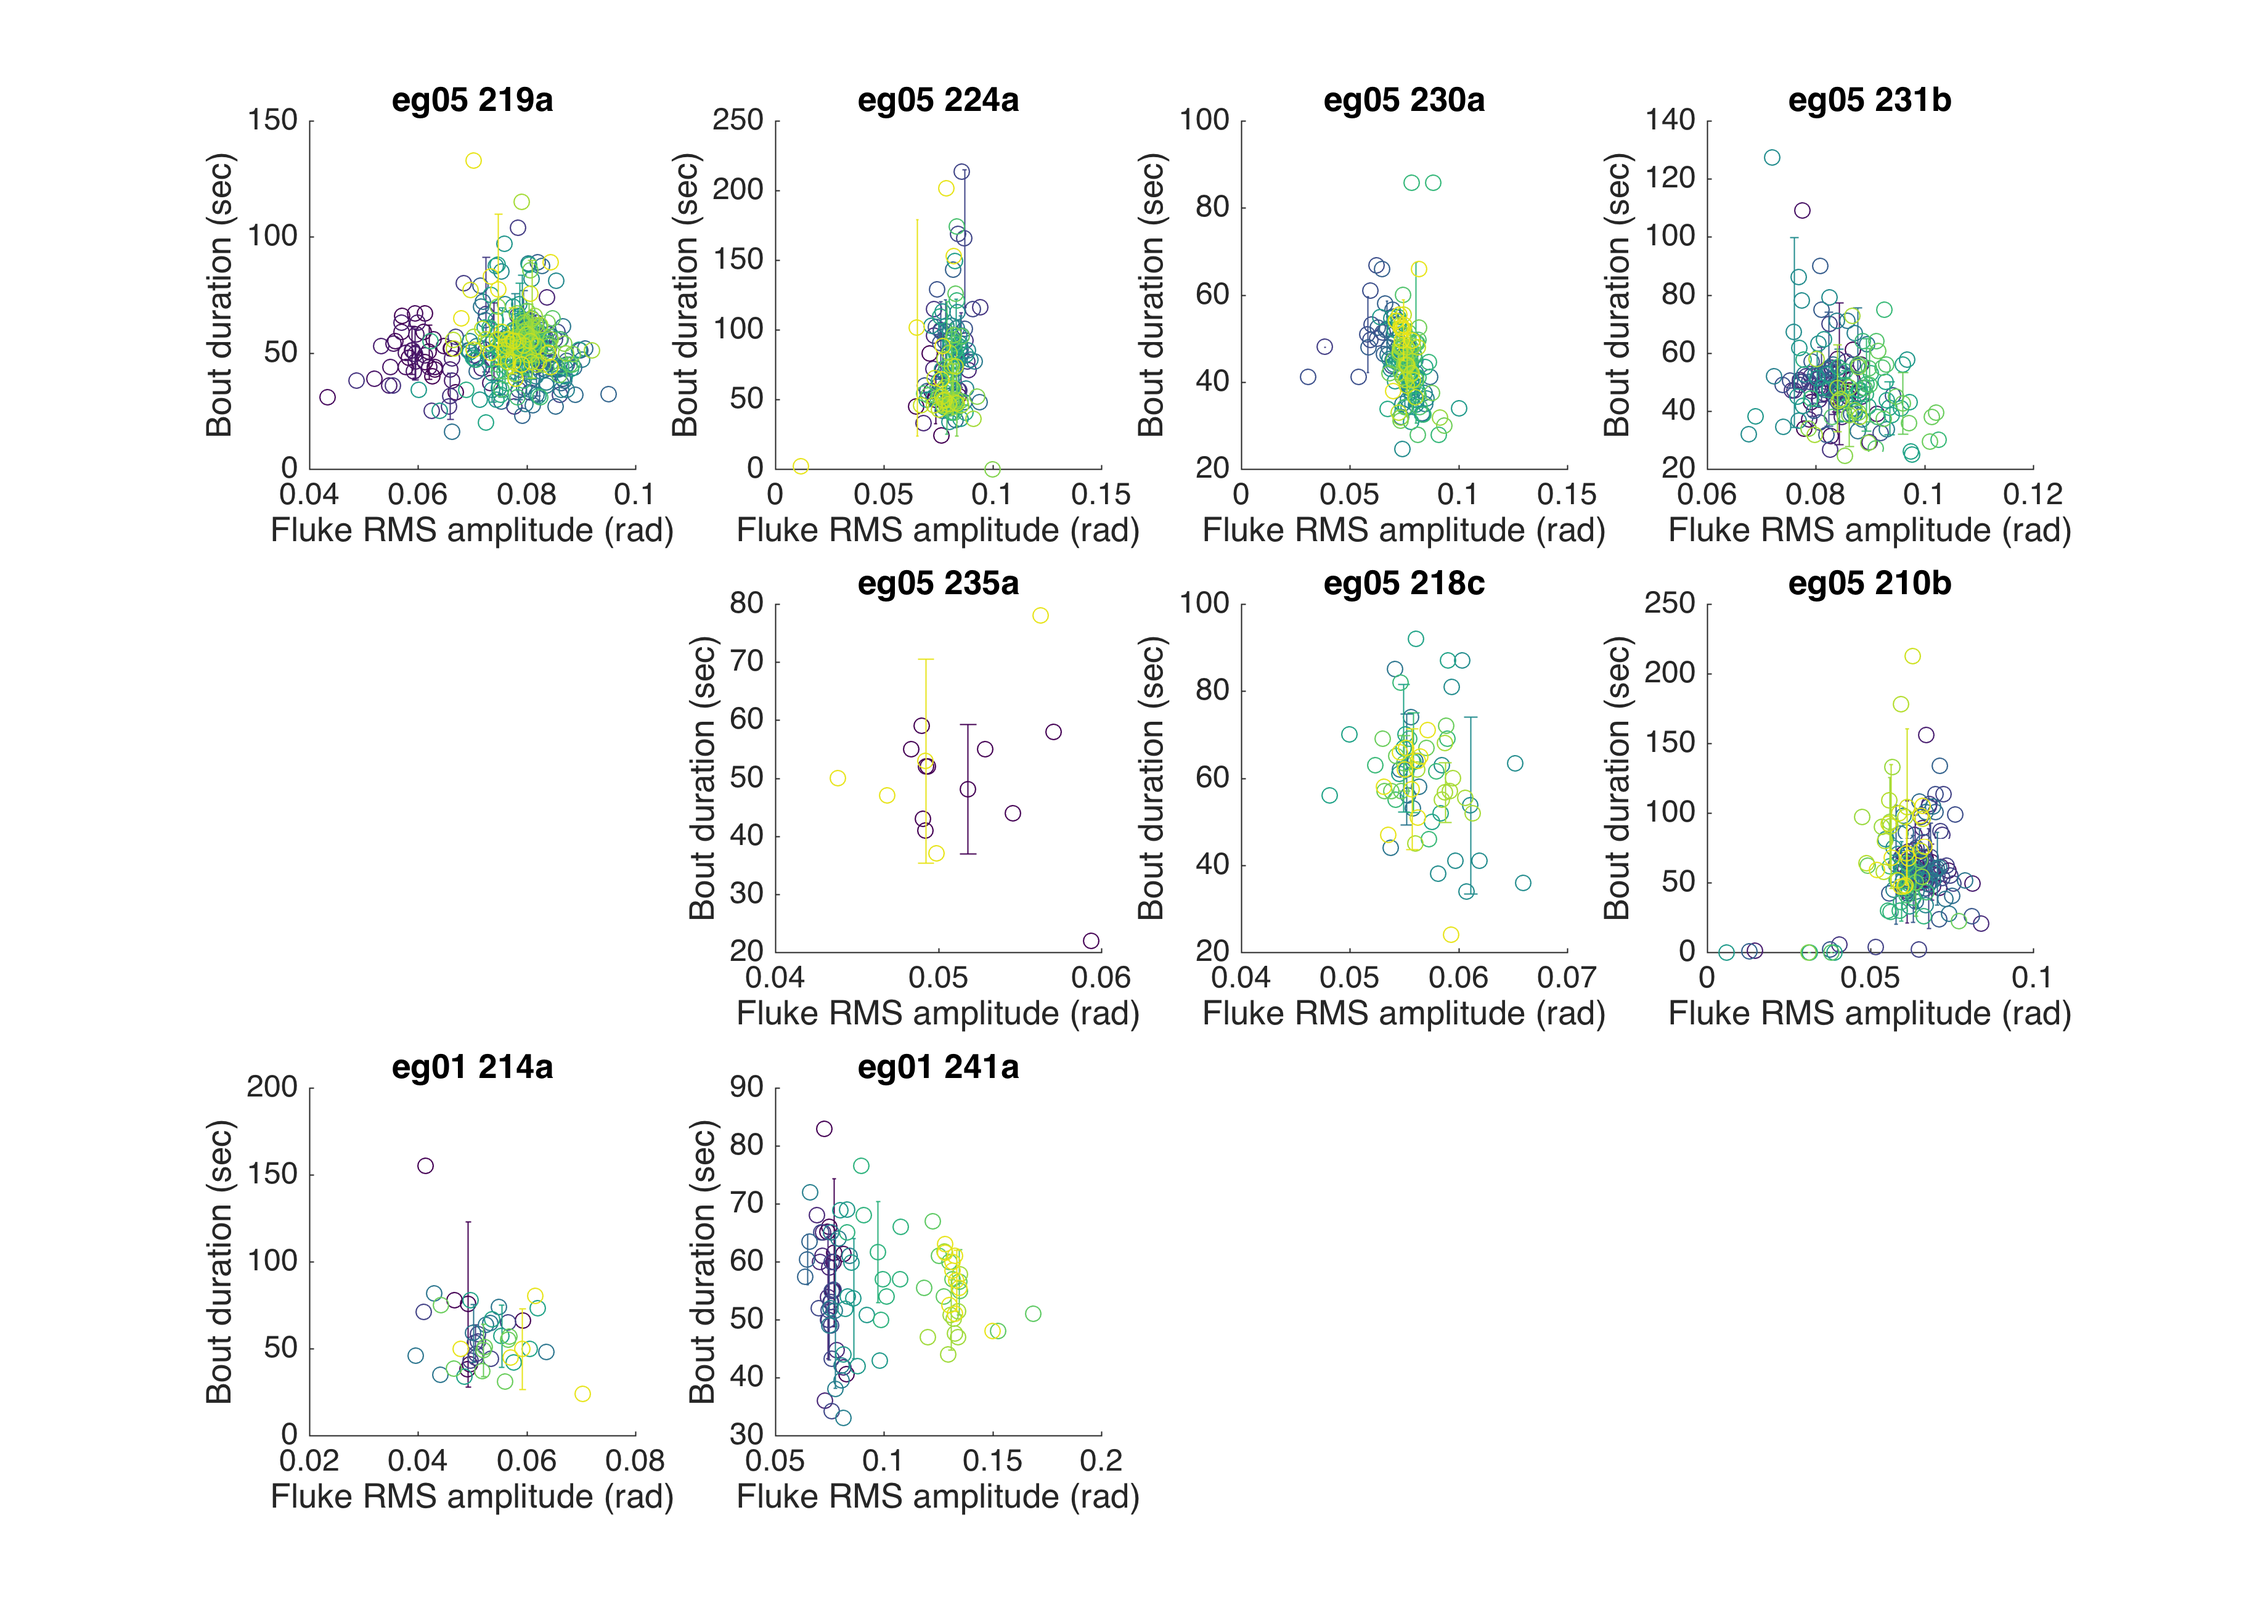
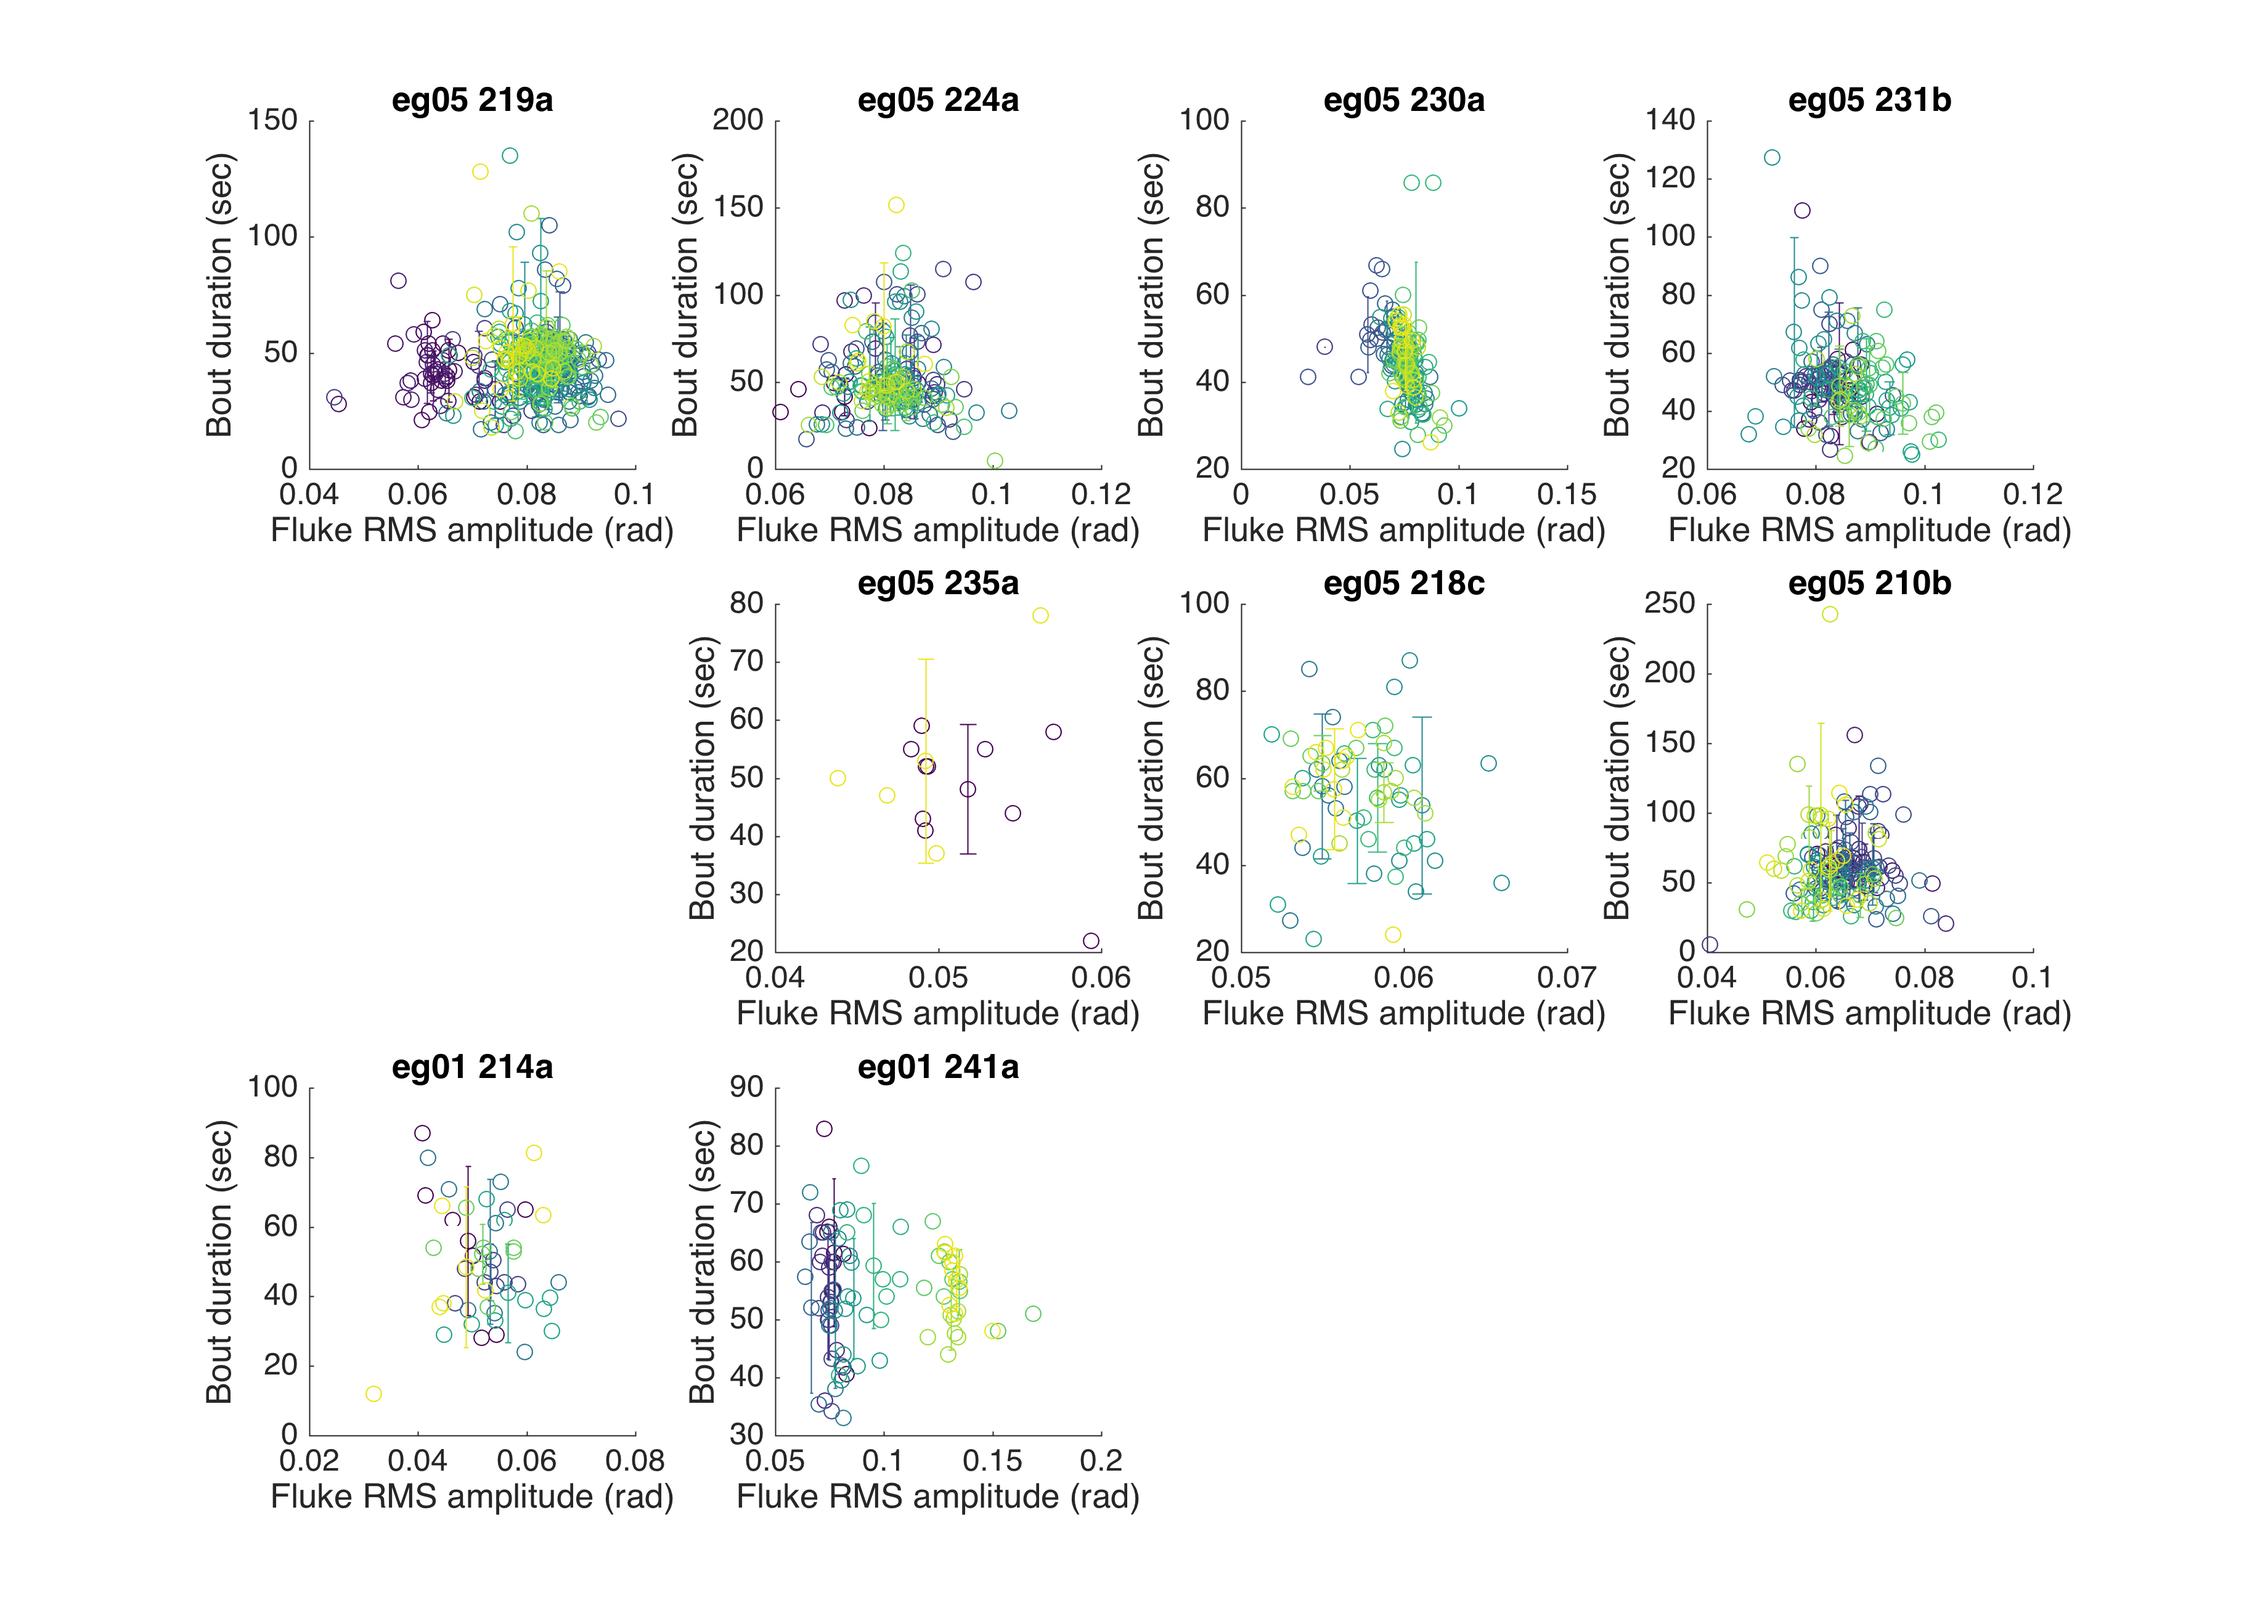
Calculations on RMS vs Speed

diff --git a/NARW_plotalldens_alltags.m b/NARW_plotalldens_alltags.m
@@ -36,9 +36,9 @@ for i = [1 4 7 10]
                 if isempty(dive(j).vperblock) ~= 1
                     
                     %plot(dive(j).mnspeedperblock,dive(j).rms,'o-','color',c(j,:))
-                    errorbar(mean(dive(j).mnspeedperblock),mean(dive(j).rms),std(dive(j).rms),'o','color',c(j,:))
+                    errorbar(mean(dive(j).mnspeedperblock),rad2deg(mean(dive(j).rms)),rad2deg(std(dive(j).rms)),'o','color',c(j,:),'linewidth',1.1)
                 end
-                xlabel('Swimming speed (m/s)'), ylabel('Fluke RMS amplitude (rad)')
+                xlabel('Swimming speed (m/s)'), ylabel('Fluke RMS amplitude (deg)')
                 title(regexprep(tag,'_',' '))
             end
             % calculate time to next foraging dive
@@ -77,12 +77,17 @@ for i = [1 4 7 10]
 end
 figure(18), adjustfigurefont 
 set(gcf,'position',[ 514    45   880   628],'paperpositionmode','auto')
+subplot(2,2,1), yl = get(gca,'ylim'); text(0.93,yl(1)+diff(yl)*0.9,'A','FontWeight','Bold','FontSize',18)
+subplot(2,2,2), yl = get(gca,'ylim'); text(0.93,yl(1)+diff(yl)*0.9,'B','FontWeight','Bold','FontSize',18)
+subplot(2,2,3), yl = get(gca,'ylim'); text(0.93,yl(1)+diff(yl)*0.9,'C','FontWeight','Bold','FontSize',18)
+subplot(2,2,4), yl = get(gca,'ylim'); text(0.93,yl(1)+diff(yl)*0.9,'D','FontWeight','Bold','FontSize',18)
 print('RMSspeed_sub','-dpng','-r300')
-figure(30), adjustfigurefont
-set(gcf,'position',[ 524    45   880   628],'paperpositionmode','auto')
-print('RMSduration_sub','-dpng','-r300')
+
+%figure(30), adjustfigurefont
+%set(gcf,'position',[ 524    45   880   628],'paperpositionmode','auto')
+%print('RMSduration_sub','-dpng','-r300')
 
 
 % ideally we want to do a linear model here 
-% 
+% fitlm(allspeeds,allrms)
 
